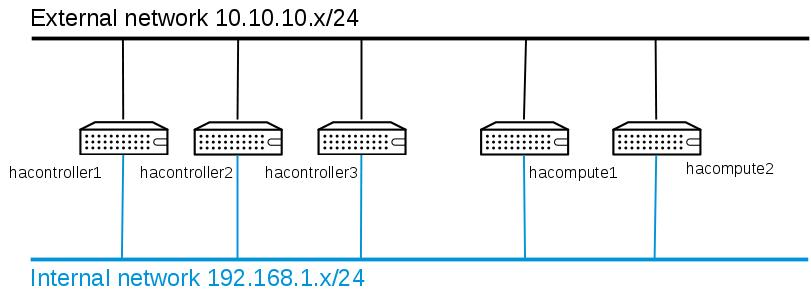
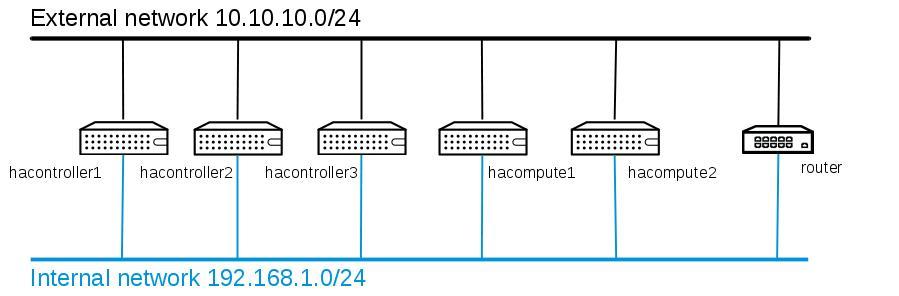
Small adjustments to diagrams and text

Changed region(s): [[0.0, 0.1216, 1.0, 0.973], [0.0308, 0.0304, 0.4624, 0.0912], [0.894, 0.8514, 1.0, 0.9122]]

diff --git a/keepalived/controller-node.md b/keepalived/controller-node.md
@@ -14,8 +14,9 @@ The basic requirements for this environment include 5 nodes, with the network se
 
 -   The external network is used by the Neutron floating IPs, and for any external access. The hypervisor nodes (hacompute1 and hacompute2) do not need to be connected to this network, but in the demo setup they are connected for testing purposes.
 -   The internal network will carry all other traffic: API traffic, tenant networks and storage traffic.
+-   A router will provide connectivity between the internal and external networks, as required by Trove and Sahara for instance management. If these services are not used, the router is not required.
 
-Please note this is a minimum test setup. Any production setup should separate internal and external API traffic, tenant networks and storage traffic in different network segments.
+Please note this is a minimum test setup. Any production setup should separate internal and external API traffic, tenant networks and storage traffic in different network segments, and route traffic between instances and the controller nodes via a firewall.
 
 ### Node setup
 
@@ -43,7 +44,7 @@ Please note that the current document uses a single virtual IP for the whole sta
 
 All nodes start from a *minimal* CentOS 7 or RHEL 7 installation, then running the enabling the required software channels.
 
--   For RDO Juno, follow the steps specified in the [RDO wiki](https://openstack.redhat.com/Repositories)
+-   For RDO Kilo, follow the steps specified in the [RDO wiki](https://openstack.redhat.com/Repositories)
 -   For the [Red Hat Enterprise Linux OpenStack Platform](http://www.redhat.com/openstack), run the following commands to enable the required repositories:
 
 <pre>subscription-manager register --username=${RHSMUSER} --password=${RHSMPASS} 
@@ -51,7 +52,7 @@ subscription-manager attach --auto
 subscription-manager repos --disable \* 
 subscription-manager repos --enable rhel-7-server-rpms 
 subscription-manager repos --enable rhel-7-server-rh-common-rpms 
-subscription-manager repos --enable rhel-7-server-openstack-6.0-rpms
+subscription-manager repos --enable rhel-7-server-openstack-7.0-rpms
 yum -y update 
 reboot</pre>
 

diff --git a/HA-keepalived.md b/HA-keepalived.md
@@ -97,6 +97,11 @@ The detailed high availability strategy for the OpenStack services is defined in
 | Swift            |openstack-swift-account     | A/A    | HAProxy     |
 | Swift            |openstack-swift-container   | A/A    | HAProxy     |
 | Swift            |openstack-swift-object      | A/A    | HAProxy     |
+| Sahara           |openstack-sahara-api        | A/A    | HAProxy     |
+| Sahara           |openstack-sahara-engine     | A/A    |             |
+| Trove            |openstack-trove-api         | A/A    | HAProxy     |
+| Trove            |openstack-trove-engine      | A/A    |             |
+| Trove            |openstack-trove-conductor   | A/A    |             |
 
 **Notes:**
 
@@ -114,7 +119,7 @@ In case of a network partitioning, there is a chance that two or more nodes runn
 
 ### Cinder-volume as a single point of failure
 
-There are currently concerns over the cinder-volume service ability to run as a fully active-active service. During the Kilo timeframe, this is being worked on, see [1](https://etherpad.openstack.org/p/cinder-kilo-stabilisation-work). Thus, cinder-volume will only be running on one of the controller nodes, even if it will be configured on all nodes. In case of a failure in the node running cinder-volume, it should be started in a surviving controller node.
+There are currently concerns over the cinder-volume service ability to run as a fully active-active service. During the Liberty timeframe, this is being worked on, see [1](https://github.com/Akrog/test-cinder-atomic-states). Thus, cinder-volume will only be running on one of the controller nodes, even if it will be configured on all nodes. In case of a failure in the node running cinder-volume, it should be started in a surviving controller node.
 
 ### Neutron-lbaas-agent as a single point of failure
 

diff --git a/keepalived/compute-node.md b/keepalived/compute-node.md
@@ -16,6 +16,7 @@ The network configuration was previously discussed in the [Controller node imple
 
 -   The external network is used by the Neutron floating IPs, and for any external access. The hypervisor nodes (hacompute1 and hacompute2) do not need to be connected to this network, but in the demo setup they are connected for testing purposes.
 -   The internal network will carry all other traffic: API traffic, tenant networks and storage traffic.
+-   The router providing connectivity between the internal and external networks is only needed if Trove and/or Sahara are being deployed.
 
 Remember this is a minimum test setup. Any production setup should separate internal and external API traffic, tenant networks and storage traffic in different network segments.
 
